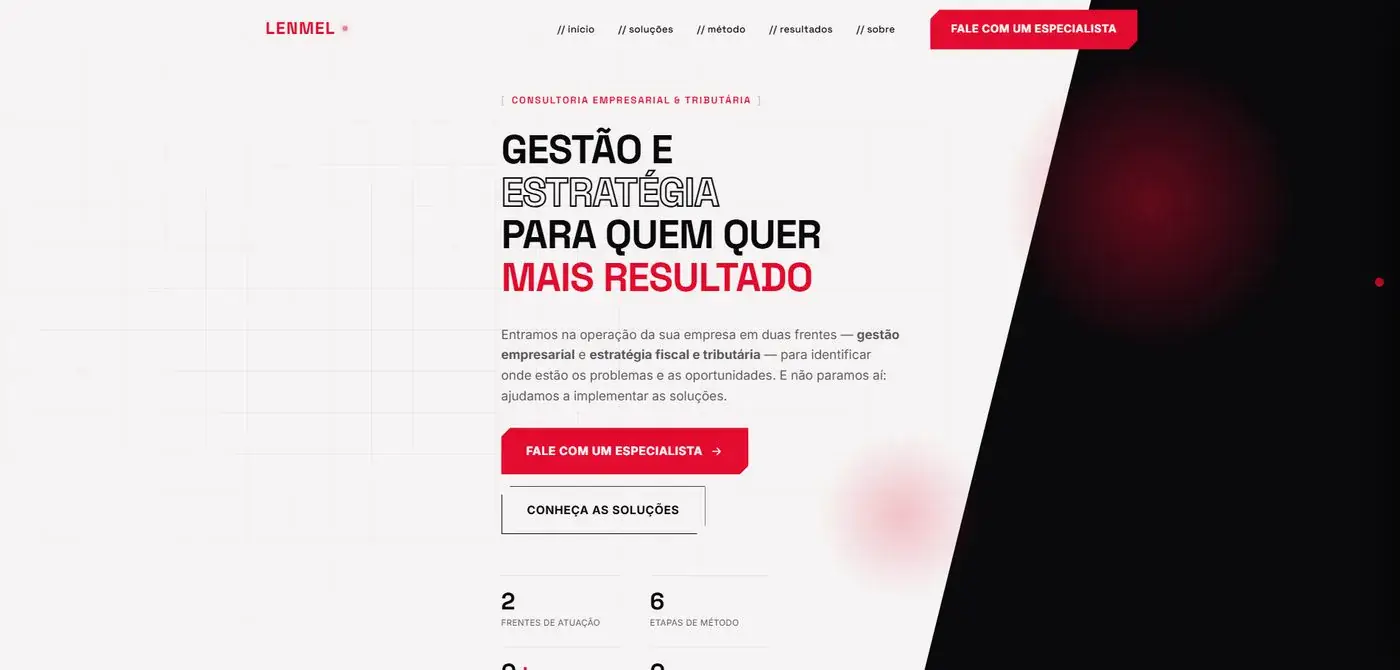
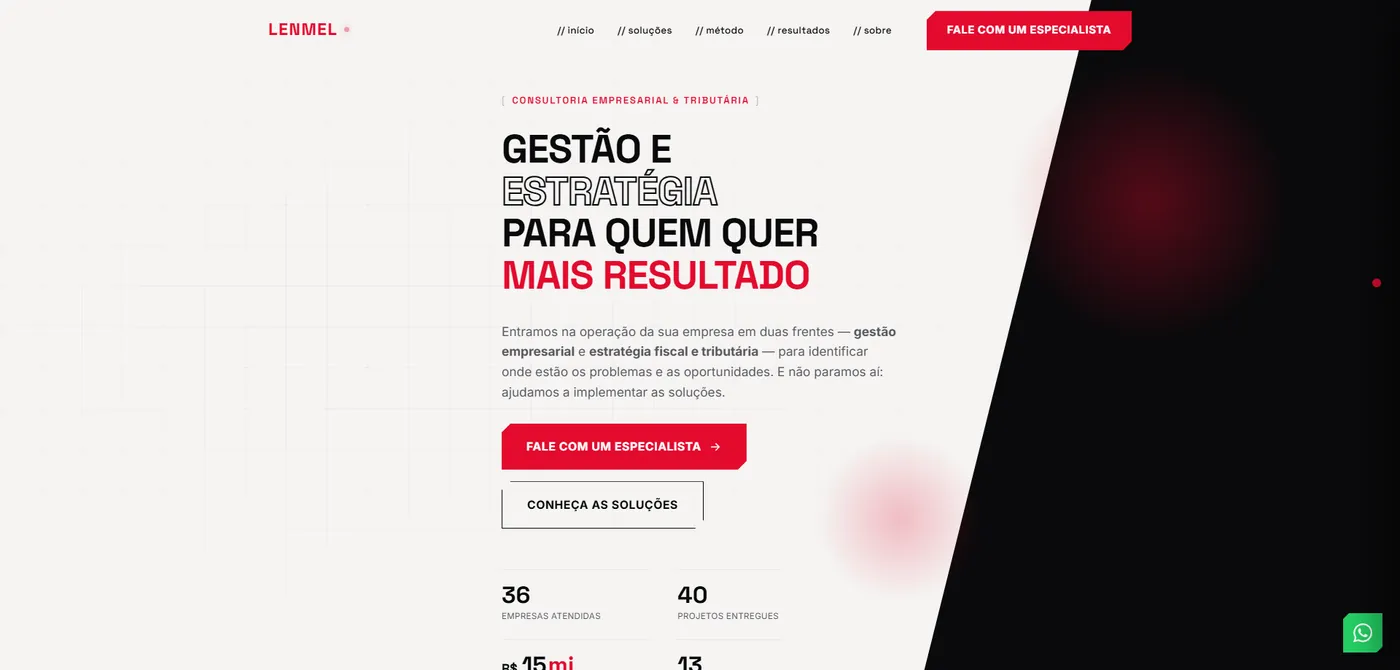
Atualiza prints da LENMEL (página inteira e topo)

diff --git a/es/index.html b/es/index.html
@@ -116,7 +116,7 @@
 <div class="cases">
 <a class="case rv" href="https://www.bouzada.com.br/" target="_blank" rel="noopener noreferrer"><div class="cbar mono"><i></i><i></i><i></i><span>www.bouzada.com.br</span><em data-t="zOn">en línea</em></div><div class="shot"><img src="../projeto-bouzada.webp" alt="Página inicial do site da Bouzada Advogados, escritório de advocacia em Belo Horizonte" width="820" height="8416" loading="lazy"></div><div class="cap"><span class="mono" data-t="zK1">01 / abogacía</span><h3>Bouzada Advogados</h3><p data-t="p3">Sitio del despacho Bouzada Advogados, en Belo Horizonte, para militares, servidores públicos, oposiciones y derecho tributario, con tesis destacadas y una verificación rápida que envía el caso listo a WhatsApp.</p><span class="go" data-t="vs">Visitar el sitio</span></div></a>
 <a class="case rv" href="https://rumobh.onrender.com/" target="_blank" rel="noopener noreferrer"><div class="cbar mono"><i></i><i></i><i></i><span>rumobh.onrender.com</span><em data-t="zOn">en línea</em></div><div class="shot"><img src="../projeto-rumo.webp" alt="Página inicial do RUMO, app para escolher faculdade" width="820" height="9760" loading="lazy"></div><div class="cap"><span class="mono" data-t="zK2">02 / app de educación</span><h3>RUMO</h3><p data-t="p2">Sitio de presentación de RUMO, una app que ayuda a los estudiantes a elegir universidad comparando mensualidades, becas, nota del MEC y distancia, con recomendaciones según su perfil y chat con IA.</p><span class="go" data-t="vs">Visitar el sitio</span></div></a>
-<a class="case rv" href="https://www.lenmel.com.br" target="_blank" rel="noopener noreferrer"><div class="cbar mono"><i></i><i></i><i></i><span>www.lenmel.com.br</span><em data-t="zOn">en línea</em></div><div class="shot"><img src="../projeto-lenmel.webp" alt="Página inicial do site da LENMEL, consultoria empresarial e tributária" width="820" height="6230" loading="lazy"></div><div class="cap"><span class="mono" data-t="zK3">03 / consultoría</span><h3>LENMEL</h3><p data-t="p1">Sitio institucional de una empresa de consultoría empresarial y tributaria, para difundir sus servicios e información.</p><span class="go" data-t="vs">Visitar el sitio</span></div></a>
+<a class="case rv" href="https://www.lenmel.com.br" target="_blank" rel="noopener noreferrer"><div class="cbar mono"><i></i><i></i><i></i><span>www.lenmel.com.br</span><em data-t="zOn">en línea</em></div><div class="shot"><img src="../projeto-lenmel.webp" alt="Página inicial do site da LENMEL, consultoria empresarial e tributária" width="820" height="5219" loading="lazy"></div><div class="cap"><span class="mono" data-t="zK3">03 / consultoría</span><h3>LENMEL</h3><p data-t="p1">Sitio institucional de una empresa de consultoría empresarial y tributaria, para difundir sus servicios e información.</p><span class="go" data-t="vs">Visitar el sitio</span></div></a>
 </div>
 <a class="next rv" href="#contato"><span class="plus" aria-hidden="true">+</span><span><b data-t="ch">Tu case aquí</b><small data-t="cx">Case dedicado a un futuro cliente de MAvision. Este espacio está reservado para nuestro próximo proyecto, y puede ser el tuyo.</small></span><span class="go" data-t="cv">Quiero ser el próximo case</span></a>
 </section>
@@ -183,7 +183,7 @@
 <div class="nums">
 <div class="num rv"><div class="num-h"><span class="mono" data-t="zQ1">presupuesto</span><svg class="clock" viewBox="0 0 64 64" aria-hidden="true"><circle class="trk" cx="32" cy="32" r="27"/><circle class="arc" cx="32" cy="32" r="27"/><line class="hand" x1="32" y1="32" x2="32" y2="12"/><circle class="pin" cx="32" cy="32" r="3"/></svg></div><b><span data-n="24">24</span>h</b><p data-t="k2">para recibir el presupuesto</p></div>
 <div class="num rv"><div class="num-h"><span class="mono" data-t="zQ2">plazo</span></div><div class="days" aria-hidden="true"><i><span data-t="zD1">lun</span></i><i class="on"><span data-t="zD2">mar</span></i><i class="on"><span data-t="zD3">mié</span></i><i class="on"><span data-t="zD4">jue</span></i><i class="on"><span data-t="zD5">vie</span></i></div><b><span data-n="2">2</span> <span data-t="zTo">a</span> <span data-n="5">5</span></b><p data-t="k3">días hábiles para publicar el sitio</p></div>
-<div class="num rv"><div class="num-h"><span class="mono" data-t="zQ3">en línea</span></div><div class="stack" aria-hidden="true"><img src="../projeto-bouzada.webp" alt="" width="820" height="8416" loading="lazy"><img src="../projeto-rumo.webp" alt="" width="820" height="9760" loading="lazy"><img src="../projeto-lenmel.webp" alt="" width="820" height="6230" loading="lazy"></div><b><span data-n="3">3</span></b><p data-t="zQ3t">sitios de clientes publicados y funcionando ahora.</p></div>
+<div class="num rv"><div class="num-h"><span class="mono" data-t="zQ3">en línea</span></div><div class="stack" aria-hidden="true"><img src="../projeto-bouzada.webp" alt="" width="820" height="8416" loading="lazy"><img src="../projeto-rumo.webp" alt="" width="820" height="9760" loading="lazy"><img src="../projeto-lenmel.webp" alt="" width="820" height="5219" loading="lazy"></div><b><span data-n="3">3</span></b><p data-t="zQ3t">sitios de clientes publicados y funcionando ahora.</p></div>
 <div class="num rv"><div class="num-h"><span class="mono" data-t="zQ4">canal</span></div><svg class="funnel" viewBox="0 0 200 84" aria-hidden="true"><path class="ln" d="M38 14 C100 14,110 42,150 42"/><path class="ln" d="M38 42 C90 42,110 42,150 42"/><path class="ln" d="M38 70 C100 70,110 42,150 42"/><path class="dot" d="M38 14 C100 14,110 42,150 42"/><path class="dot" d="M38 42 C90 42,110 42,150 42"/><path class="dot" d="M38 70 C100 70,110 42,150 42"/><text x="32" y="17" text-anchor="end">site</text><text x="32" y="45" text-anchor="end">google</text><text x="32" y="73" text-anchor="end">insta</text><circle class="ring" cx="170" cy="42" r="20"/><circle class="wa-c" cx="170" cy="42" r="17"/><path class="wa-g" transform="translate(160.4 32.4) scale(.8)" d="M12 2a10 10 0 00-8.6 15.1L2 22l5-1.3A10 10 0 1012 2zm5.2 14.2c-.2.6-1.3 1.2-1.8 1.2-.5.1-1 .2-3.3-.7-2.8-1.2-4.6-4-4.7-4.2-.1-.2-1.1-1.5-1.1-2.8s.7-2 1-2.3c.2-.3.5-.3.7-.3h.5c.2 0 .4 0 .6.5l.8 2c.1.2.1.3 0 .5l-.4.6c-.1.2-.3.3-.1.6.2.3.8 1.3 1.7 2.1 1.2 1 2.1 1.3 2.4 1.5.3.1.4.1.6-.1l.8-1c.2-.3.4-.2.6-.1l1.9.9c.3.1.5.2.5.3.1.2.1.8-.1 1.3z"/></svg><b><span data-n="1">1</span></b><p data-t="zQ4t">lugar para que el cliente hable contigo: WhatsApp.</p></div>
 </div>
 </section>

diff --git a/index.html b/index.html
@@ -116,7 +116,7 @@
 <div class="cases">
 <a class="case rv" href="https://www.bouzada.com.br/" target="_blank" rel="noopener noreferrer"><div class="cbar mono"><i></i><i></i><i></i><span>www.bouzada.com.br</span><em data-t="zOn">no ar</em></div><div class="shot"><img src="projeto-bouzada.webp" alt="Página inicial do site da Bouzada Advogados, escritório de advocacia em Belo Horizonte" width="820" height="8416" loading="lazy"></div><div class="cap"><span class="mono" data-t="zK1">01 / advocacia</span><h3>Bouzada Advogados</h3><p data-t="p3">Site do escritório Bouzada Advogados, em Belo Horizonte, para militares, servidores públicos, concursos e direito tributário, com teses em destaque e uma verificação rápida que envia o caso pronto para o WhatsApp.</p><span class="go" data-t="vs">Visitar o site</span></div></a>
 <a class="case rv" href="https://rumobh.onrender.com/" target="_blank" rel="noopener noreferrer"><div class="cbar mono"><i></i><i></i><i></i><span>rumobh.onrender.com</span><em data-t="zOn">no ar</em></div><div class="shot"><img src="projeto-rumo.webp" alt="Página inicial do RUMO, app para escolher faculdade" width="820" height="9760" loading="lazy"></div><div class="cap"><span class="mono" data-t="zK2">02 / app de educação</span><h3>RUMO</h3><p data-t="p2">Site de apresentação do RUMO, app que ajuda estudantes a escolher a faculdade comparando mensalidade, bolsas, nota do MEC e distância, com recomendações para o perfil e chat com IA.</p><span class="go" data-t="vs">Visitar o site</span></div></a>
-<a class="case rv" href="https://www.lenmel.com.br" target="_blank" rel="noopener noreferrer"><div class="cbar mono"><i></i><i></i><i></i><span>www.lenmel.com.br</span><em data-t="zOn">no ar</em></div><div class="shot"><img src="projeto-lenmel.webp" alt="Página inicial do site da LENMEL, consultoria empresarial e tributária" width="820" height="6230" loading="lazy"></div><div class="cap"><span class="mono" data-t="zK3">03 / consultoria</span><h3>LENMEL</h3><p data-t="p1">Site institucional de uma empresa de consultoria empresarial e tributária, para divulgar serviços e informações da empresa.</p><span class="go" data-t="vs">Visitar o site</span></div></a>
+<a class="case rv" href="https://www.lenmel.com.br" target="_blank" rel="noopener noreferrer"><div class="cbar mono"><i></i><i></i><i></i><span>www.lenmel.com.br</span><em data-t="zOn">no ar</em></div><div class="shot"><img src="projeto-lenmel.webp" alt="Página inicial do site da LENMEL, consultoria empresarial e tributária" width="820" height="5219" loading="lazy"></div><div class="cap"><span class="mono" data-t="zK3">03 / consultoria</span><h3>LENMEL</h3><p data-t="p1">Site institucional de uma empresa de consultoria empresarial e tributária, para divulgar serviços e informações da empresa.</p><span class="go" data-t="vs">Visitar o site</span></div></a>
 </div>
 <a class="next rv" href="#contato"><span class="plus" aria-hidden="true">+</span><span><b data-t="ch">Seu case aqui</b><small data-t="cx">Case dedicado a um futuro cliente da MAvision. Este espaço está reservado para o próximo projeto, e pode ser o seu.</small></span><span class="go" data-t="cv">Quero ser o próximo case</span></a>
 </section>
@@ -183,7 +183,7 @@
 <div class="nums">
 <div class="num rv"><div class="num-h"><span class="mono" data-t="zQ1">orçamento</span><svg class="clock" viewBox="0 0 64 64" aria-hidden="true"><circle class="trk" cx="32" cy="32" r="27"/><circle class="arc" cx="32" cy="32" r="27"/><line class="hand" x1="32" y1="32" x2="32" y2="12"/><circle class="pin" cx="32" cy="32" r="3"/></svg></div><b><span data-n="24">24</span>h</b><p data-t="k2">para receber o orçamento</p></div>
 <div class="num rv"><div class="num-h"><span class="mono" data-t="zQ2">prazo</span></div><div class="days" aria-hidden="true"><i><span data-t="zD1">seg</span></i><i class="on"><span data-t="zD2">ter</span></i><i class="on"><span data-t="zD3">qua</span></i><i class="on"><span data-t="zD4">qui</span></i><i class="on"><span data-t="zD5">sex</span></i></div><b><span data-n="2">2</span> <span data-t="zTo">a</span> <span data-n="5">5</span></b><p data-t="k3">dias úteis para o site ir ao ar</p></div>
-<div class="num rv"><div class="num-h"><span class="mono" data-t="zQ3">no ar</span></div><div class="stack" aria-hidden="true"><img src="projeto-bouzada.webp" alt="" width="820" height="8416" loading="lazy"><img src="projeto-rumo.webp" alt="" width="820" height="9760" loading="lazy"><img src="projeto-lenmel.webp" alt="" width="820" height="6230" loading="lazy"></div><b><span data-n="3">3</span></b><p data-t="zQ3t">sites de clientes publicados e funcionando agora.</p></div>
+<div class="num rv"><div class="num-h"><span class="mono" data-t="zQ3">no ar</span></div><div class="stack" aria-hidden="true"><img src="projeto-bouzada.webp" alt="" width="820" height="8416" loading="lazy"><img src="projeto-rumo.webp" alt="" width="820" height="9760" loading="lazy"><img src="projeto-lenmel.webp" alt="" width="820" height="5219" loading="lazy"></div><b><span data-n="3">3</span></b><p data-t="zQ3t">sites de clientes publicados e funcionando agora.</p></div>
 <div class="num rv"><div class="num-h"><span class="mono" data-t="zQ4">canal</span></div><svg class="funnel" viewBox="0 0 200 84" aria-hidden="true"><path class="ln" d="M38 14 C100 14,110 42,150 42"/><path class="ln" d="M38 42 C90 42,110 42,150 42"/><path class="ln" d="M38 70 C100 70,110 42,150 42"/><path class="dot" d="M38 14 C100 14,110 42,150 42"/><path class="dot" d="M38 42 C90 42,110 42,150 42"/><path class="dot" d="M38 70 C100 70,110 42,150 42"/><text x="32" y="17" text-anchor="end">site</text><text x="32" y="45" text-anchor="end">google</text><text x="32" y="73" text-anchor="end">insta</text><circle class="ring" cx="170" cy="42" r="20"/><circle class="wa-c" cx="170" cy="42" r="17"/><path class="wa-g" transform="translate(160.4 32.4) scale(.8)" d="M12 2a10 10 0 00-8.6 15.1L2 22l5-1.3A10 10 0 1012 2zm5.2 14.2c-.2.6-1.3 1.2-1.8 1.2-.5.1-1 .2-3.3-.7-2.8-1.2-4.6-4-4.7-4.2-.1-.2-1.1-1.5-1.1-2.8s.7-2 1-2.3c.2-.3.5-.3.7-.3h.5c.2 0 .4 0 .6.5l.8 2c.1.2.1.3 0 .5l-.4.6c-.1.2-.3.3-.1.6.2.3.8 1.3 1.7 2.1 1.2 1 2.1 1.3 2.4 1.5.3.1.4.1.6-.1l.8-1c.2-.3.4-.2.6-.1l1.9.9c.3.1.5.2.5.3.1.2.1.8-.1 1.3z"/></svg><b><span data-n="1">1</span></b><p data-t="zQ4t">lugar para o cliente falar com você: o WhatsApp.</p></div>
 </div>
 </section>

diff --git a/en/index.html b/en/index.html
@@ -116,7 +116,7 @@
 <div class="cases">
 <a class="case rv" href="https://www.bouzada.com.br/" target="_blank" rel="noopener noreferrer"><div class="cbar mono"><i></i><i></i><i></i><span>www.bouzada.com.br</span><em data-t="zOn">live</em></div><div class="shot"><img src="../projeto-bouzada.webp" alt="Página inicial do site da Bouzada Advogados, escritório de advocacia em Belo Horizonte" width="820" height="8416" loading="lazy"></div><div class="cap"><span class="mono" data-t="zK1">01 / law firm</span><h3>Bouzada Advogados</h3><p data-t="p3">Website for Bouzada Advogados, a Belo Horizonte law firm for military personnel, public servants, civil-service candidates and tax clients, with featured cases and a quick check that sends the case straight to WhatsApp.</p><span class="go" data-t="vs">Visit website</span></div></a>
 <a class="case rv" href="https://rumobh.onrender.com/" target="_blank" rel="noopener noreferrer"><div class="cbar mono"><i></i><i></i><i></i><span>rumobh.onrender.com</span><em data-t="zOn">live</em></div><div class="shot"><img src="../projeto-rumo.webp" alt="Página inicial do RUMO, app para escolher faculdade" width="820" height="9760" loading="lazy"></div><div class="cap"><span class="mono" data-t="zK2">02 / education app</span><h3>RUMO</h3><p data-t="p2">Launch website for RUMO, an app that helps students choose a college by comparing tuition, scholarships, MEC ratings and distance, with profile-based recommendations and an AI chat.</p><span class="go" data-t="vs">Visit website</span></div></a>
-<a class="case rv" href="https://www.lenmel.com.br" target="_blank" rel="noopener noreferrer"><div class="cbar mono"><i></i><i></i><i></i><span>www.lenmel.com.br</span><em data-t="zOn">live</em></div><div class="shot"><img src="../projeto-lenmel.webp" alt="Página inicial do site da LENMEL, consultoria empresarial e tributária" width="820" height="6230" loading="lazy"></div><div class="cap"><span class="mono" data-t="zK3">03 / consulting</span><h3>LENMEL</h3><p data-t="p1">Institutional website for a business and tax consulting firm, presenting its services and company information.</p><span class="go" data-t="vs">Visit website</span></div></a>
+<a class="case rv" href="https://www.lenmel.com.br" target="_blank" rel="noopener noreferrer"><div class="cbar mono"><i></i><i></i><i></i><span>www.lenmel.com.br</span><em data-t="zOn">live</em></div><div class="shot"><img src="../projeto-lenmel.webp" alt="Página inicial do site da LENMEL, consultoria empresarial e tributária" width="820" height="5219" loading="lazy"></div><div class="cap"><span class="mono" data-t="zK3">03 / consulting</span><h3>LENMEL</h3><p data-t="p1">Institutional website for a business and tax consulting firm, presenting its services and company information.</p><span class="go" data-t="vs">Visit website</span></div></a>
 </div>
 <a class="next rv" href="#contato"><span class="plus" aria-hidden="true">+</span><span><b data-t="ch">Your case here</b><small data-t="cx">Case dedicated to a future MAvision client. This space is reserved for our next project, and it could be yours.</small></span><span class="go" data-t="cv">I want to be the next case</span></a>
 </section>
@@ -183,7 +183,7 @@
 <div class="nums">
 <div class="num rv"><div class="num-h"><span class="mono" data-t="zQ1">quote</span><svg class="clock" viewBox="0 0 64 64" aria-hidden="true"><circle class="trk" cx="32" cy="32" r="27"/><circle class="arc" cx="32" cy="32" r="27"/><line class="hand" x1="32" y1="32" x2="32" y2="12"/><circle class="pin" cx="32" cy="32" r="3"/></svg></div><b><span data-n="24">24</span>h</b><p data-t="k2">to get your quote</p></div>
 <div class="num rv"><div class="num-h"><span class="mono" data-t="zQ2">timeline</span></div><div class="days" aria-hidden="true"><i><span data-t="zD1">mon</span></i><i class="on"><span data-t="zD2">tue</span></i><i class="on"><span data-t="zD3">wed</span></i><i class="on"><span data-t="zD4">thu</span></i><i class="on"><span data-t="zD5">fri</span></i></div><b><span data-n="2">2</span> <span data-t="zTo">to</span> <span data-n="5">5</span></b><p data-t="k3">business days to go live</p></div>
-<div class="num rv"><div class="num-h"><span class="mono" data-t="zQ3">live</span></div><div class="stack" aria-hidden="true"><img src="../projeto-bouzada.webp" alt="" width="820" height="8416" loading="lazy"><img src="../projeto-rumo.webp" alt="" width="820" height="9760" loading="lazy"><img src="../projeto-lenmel.webp" alt="" width="820" height="6230" loading="lazy"></div><b><span data-n="3">3</span></b><p data-t="zQ3t">client websites published and running right now.</p></div>
+<div class="num rv"><div class="num-h"><span class="mono" data-t="zQ3">live</span></div><div class="stack" aria-hidden="true"><img src="../projeto-bouzada.webp" alt="" width="820" height="8416" loading="lazy"><img src="../projeto-rumo.webp" alt="" width="820" height="9760" loading="lazy"><img src="../projeto-lenmel.webp" alt="" width="820" height="5219" loading="lazy"></div><b><span data-n="3">3</span></b><p data-t="zQ3t">client websites published and running right now.</p></div>
 <div class="num rv"><div class="num-h"><span class="mono" data-t="zQ4">channel</span></div><svg class="funnel" viewBox="0 0 200 84" aria-hidden="true"><path class="ln" d="M38 14 C100 14,110 42,150 42"/><path class="ln" d="M38 42 C90 42,110 42,150 42"/><path class="ln" d="M38 70 C100 70,110 42,150 42"/><path class="dot" d="M38 14 C100 14,110 42,150 42"/><path class="dot" d="M38 42 C90 42,110 42,150 42"/><path class="dot" d="M38 70 C100 70,110 42,150 42"/><text x="32" y="17" text-anchor="end">site</text><text x="32" y="45" text-anchor="end">google</text><text x="32" y="73" text-anchor="end">insta</text><circle class="ring" cx="170" cy="42" r="20"/><circle class="wa-c" cx="170" cy="42" r="17"/><path class="wa-g" transform="translate(160.4 32.4) scale(.8)" d="M12 2a10 10 0 00-8.6 15.1L2 22l5-1.3A10 10 0 1012 2zm5.2 14.2c-.2.6-1.3 1.2-1.8 1.2-.5.1-1 .2-3.3-.7-2.8-1.2-4.6-4-4.7-4.2-.1-.2-1.1-1.5-1.1-2.8s.7-2 1-2.3c.2-.3.5-.3.7-.3h.5c.2 0 .4 0 .6.5l.8 2c.1.2.1.3 0 .5l-.4.6c-.1.2-.3.3-.1.6.2.3.8 1.3 1.7 2.1 1.2 1 2.1 1.3 2.4 1.5.3.1.4.1.6-.1l.8-1c.2-.3.4-.2.6-.1l1.9.9c.3.1.5.2.5.3.1.2.1.8-.1 1.3z"/></svg><b><span data-n="1">1</span></b><p data-t="zQ4t">place for customers to reach you: WhatsApp.</p></div>
 </div>
 </section>

diff --git a/src/index.template.html b/src/index.template.html
@@ -90,7 +90,7 @@
 <div class="cases">
 <a class="case rv" href="https://www.bouzada.com.br/" target="_blank" rel="noopener noreferrer"><div class="cbar mono"><i></i><i></i><i></i><span>www.bouzada.com.br</span><em data-t="zOn"></em></div><div class="shot"><img src="{{base}}projeto-bouzada.webp" alt="Página inicial do site da Bouzada Advogados, escritório de advocacia em Belo Horizonte" width="820" height="8416" loading="lazy"></div><div class="cap"><span class="mono" data-t="zK1"></span><h3>Bouzada Advogados</h3><p data-t="p3"></p><span class="go" data-t="vs"></span></div></a>
 <a class="case rv" href="https://rumobh.onrender.com/" target="_blank" rel="noopener noreferrer"><div class="cbar mono"><i></i><i></i><i></i><span>rumobh.onrender.com</span><em data-t="zOn"></em></div><div class="shot"><img src="{{base}}projeto-rumo.webp" alt="Página inicial do RUMO, app para escolher faculdade" width="820" height="9760" loading="lazy"></div><div class="cap"><span class="mono" data-t="zK2"></span><h3>RUMO</h3><p data-t="p2"></p><span class="go" data-t="vs"></span></div></a>
-<a class="case rv" href="https://www.lenmel.com.br" target="_blank" rel="noopener noreferrer"><div class="cbar mono"><i></i><i></i><i></i><span>www.lenmel.com.br</span><em data-t="zOn"></em></div><div class="shot"><img src="{{base}}projeto-lenmel.webp" alt="Página inicial do site da LENMEL, consultoria empresarial e tributária" width="820" height="6230" loading="lazy"></div><div class="cap"><span class="mono" data-t="zK3"></span><h3>LENMEL</h3><p data-t="p1"></p><span class="go" data-t="vs"></span></div></a>
+<a class="case rv" href="https://www.lenmel.com.br" target="_blank" rel="noopener noreferrer"><div class="cbar mono"><i></i><i></i><i></i><span>www.lenmel.com.br</span><em data-t="zOn"></em></div><div class="shot"><img src="{{base}}projeto-lenmel.webp" alt="Página inicial do site da LENMEL, consultoria empresarial e tributária" width="820" height="5219" loading="lazy"></div><div class="cap"><span class="mono" data-t="zK3"></span><h3>LENMEL</h3><p data-t="p1"></p><span class="go" data-t="vs"></span></div></a>
 </div>
 <a class="next rv" href="#contato"><span class="plus" aria-hidden="true">+</span><span><b data-t="ch"></b><small data-t="cx"></small></span><span class="go" data-t="cv"></span></a>
 </section>
@@ -157,7 +157,7 @@
 <div class="nums">
 <div class="num rv"><div class="num-h"><span class="mono" data-t="zQ1"></span><svg class="clock" viewBox="0 0 64 64" aria-hidden="true"><circle class="trk" cx="32" cy="32" r="27"/><circle class="arc" cx="32" cy="32" r="27"/><line class="hand" x1="32" y1="32" x2="32" y2="12"/><circle class="pin" cx="32" cy="32" r="3"/></svg></div><b><span data-n="24">24</span>h</b><p data-t="k2"></p></div>
 <div class="num rv"><div class="num-h"><span class="mono" data-t="zQ2"></span></div><div class="days" aria-hidden="true"><i><span data-t="zD1"></span></i><i class="on"><span data-t="zD2"></span></i><i class="on"><span data-t="zD3"></span></i><i class="on"><span data-t="zD4"></span></i><i class="on"><span data-t="zD5"></span></i></div><b><span data-n="2">2</span> <span data-t="zTo"></span> <span data-n="5">5</span></b><p data-t="k3"></p></div>
-<div class="num rv"><div class="num-h"><span class="mono" data-t="zQ3"></span></div><div class="stack" aria-hidden="true"><img src="{{base}}projeto-bouzada.webp" alt="" width="820" height="8416" loading="lazy"><img src="{{base}}projeto-rumo.webp" alt="" width="820" height="9760" loading="lazy"><img src="{{base}}projeto-lenmel.webp" alt="" width="820" height="6230" loading="lazy"></div><b><span data-n="3">3</span></b><p data-t="zQ3t"></p></div>
+<div class="num rv"><div class="num-h"><span class="mono" data-t="zQ3"></span></div><div class="stack" aria-hidden="true"><img src="{{base}}projeto-bouzada.webp" alt="" width="820" height="8416" loading="lazy"><img src="{{base}}projeto-rumo.webp" alt="" width="820" height="9760" loading="lazy"><img src="{{base}}projeto-lenmel.webp" alt="" width="820" height="5219" loading="lazy"></div><b><span data-n="3">3</span></b><p data-t="zQ3t"></p></div>
 <div class="num rv"><div class="num-h"><span class="mono" data-t="zQ4"></span></div><svg class="funnel" viewBox="0 0 200 84" aria-hidden="true"><path class="ln" d="M38 14 C100 14,110 42,150 42"/><path class="ln" d="M38 42 C90 42,110 42,150 42"/><path class="ln" d="M38 70 C100 70,110 42,150 42"/><path class="dot" d="M38 14 C100 14,110 42,150 42"/><path class="dot" d="M38 42 C90 42,110 42,150 42"/><path class="dot" d="M38 70 C100 70,110 42,150 42"/><text x="32" y="17" text-anchor="end">site</text><text x="32" y="45" text-anchor="end">google</text><text x="32" y="73" text-anchor="end">insta</text><circle class="ring" cx="170" cy="42" r="20"/><circle class="wa-c" cx="170" cy="42" r="17"/><path class="wa-g" transform="translate(160.4 32.4) scale(.8)" d="M12 2a10 10 0 00-8.6 15.1L2 22l5-1.3A10 10 0 1012 2zm5.2 14.2c-.2.6-1.3 1.2-1.8 1.2-.5.1-1 .2-3.3-.7-2.8-1.2-4.6-4-4.7-4.2-.1-.2-1.1-1.5-1.1-2.8s.7-2 1-2.3c.2-.3.5-.3.7-.3h.5c.2 0 .4 0 .6.5l.8 2c.1.2.1.3 0 .5l-.4.6c-.1.2-.3.3-.1.6.2.3.8 1.3 1.7 2.1 1.2 1 2.1 1.3 2.4 1.5.3.1.4.1.6-.1l.8-1c.2-.3.4-.2.6-.1l1.9.9c.3.1.5.2.5.3.1.2.1.8-.1 1.3z"/></svg><b><span data-n="1">1</span></b><p data-t="zQ4t"></p></div>
 </div>
 </section>
